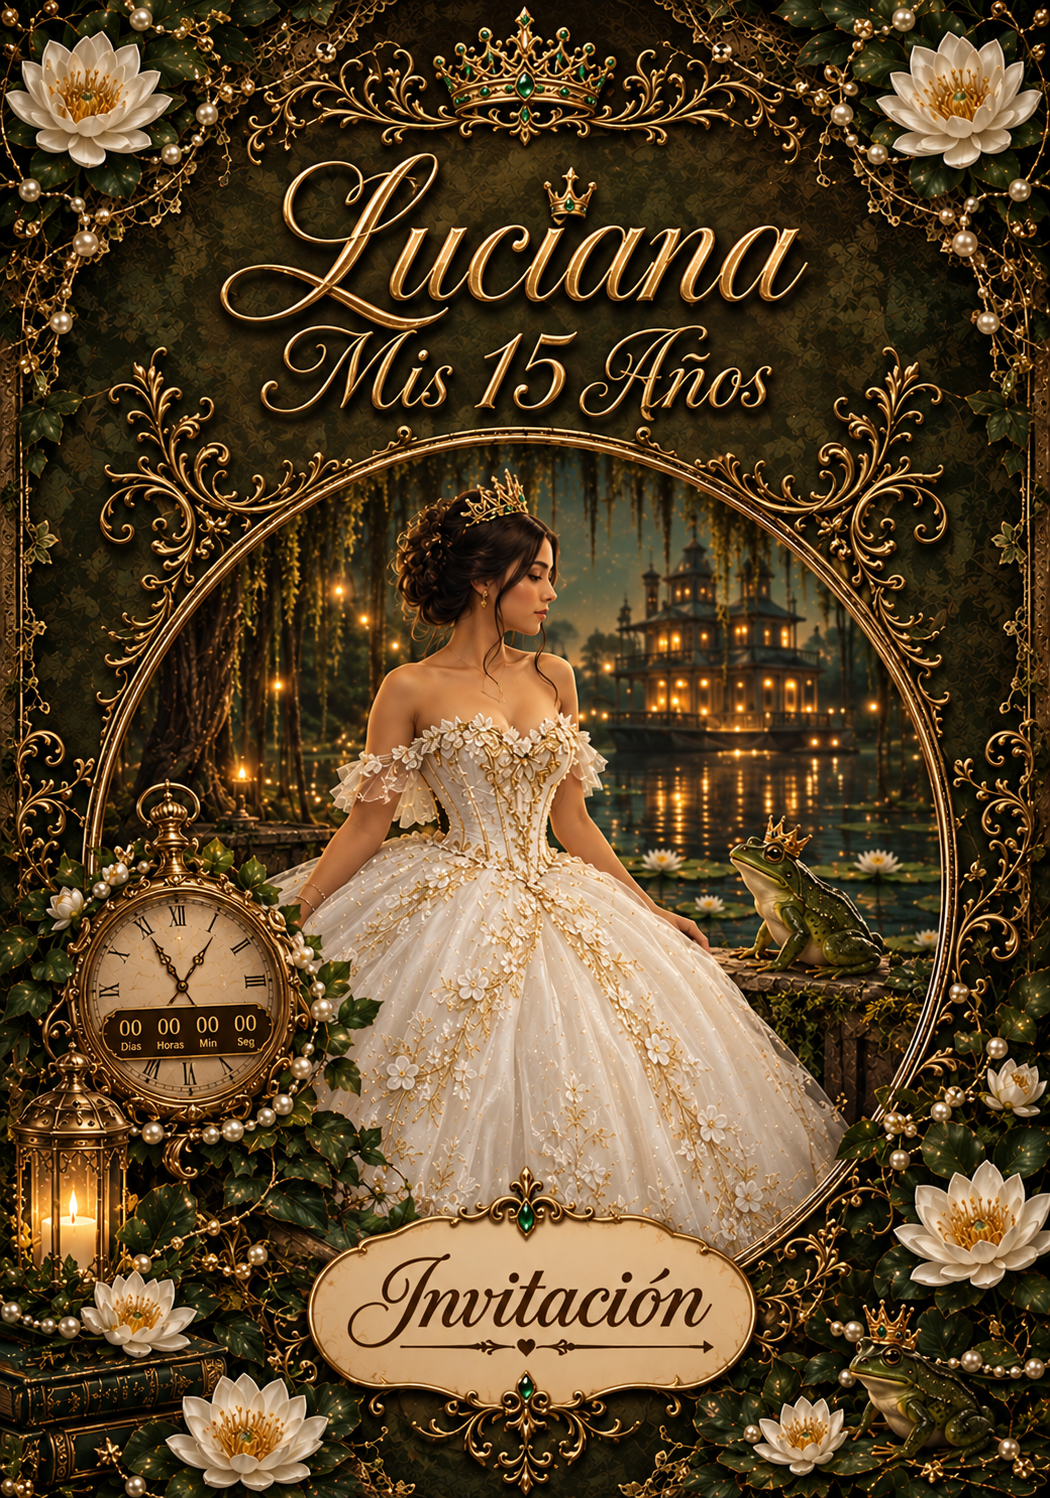
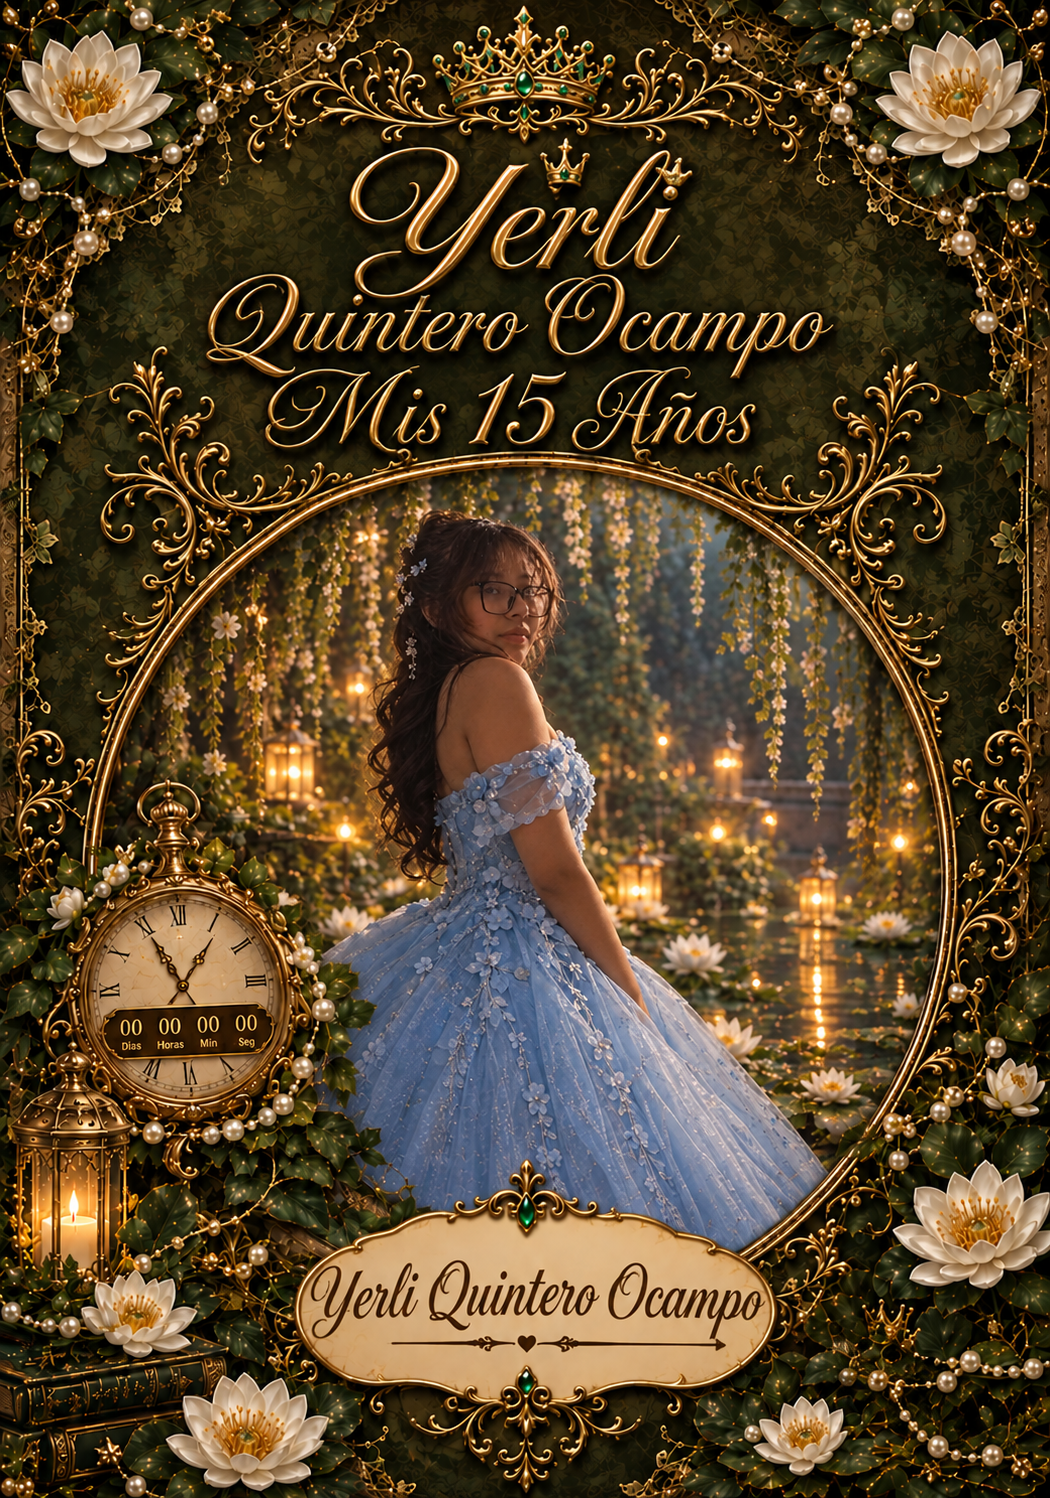
cambio de imagen

diff --git a/index.html b/index.html
@@ -5,7 +5,7 @@
   <meta name="viewport" content="width=device-width, initial-scale=1.0, viewport-fit=cover">
   <meta name="theme-color" content="#07130d">
   <meta name="description" content="Invitación de XV años de Luciana — una noche de cuento, magia y elegancia.">
-  <title>LA GUENDY · Mis 20 Años</title>
+  <title>YERLI · Mis 20 Años</title>
   <link rel="preconnect" href="https://fonts.googleapis.com">
   <link rel="preconnect" href="https://fonts.gstatic.com" crossorigin>
   <link href="https://fonts.googleapis.com/css2?family=Cinzel:wght@500;600;700&family=Great+Vibes&display=swap" rel="stylesheet">
